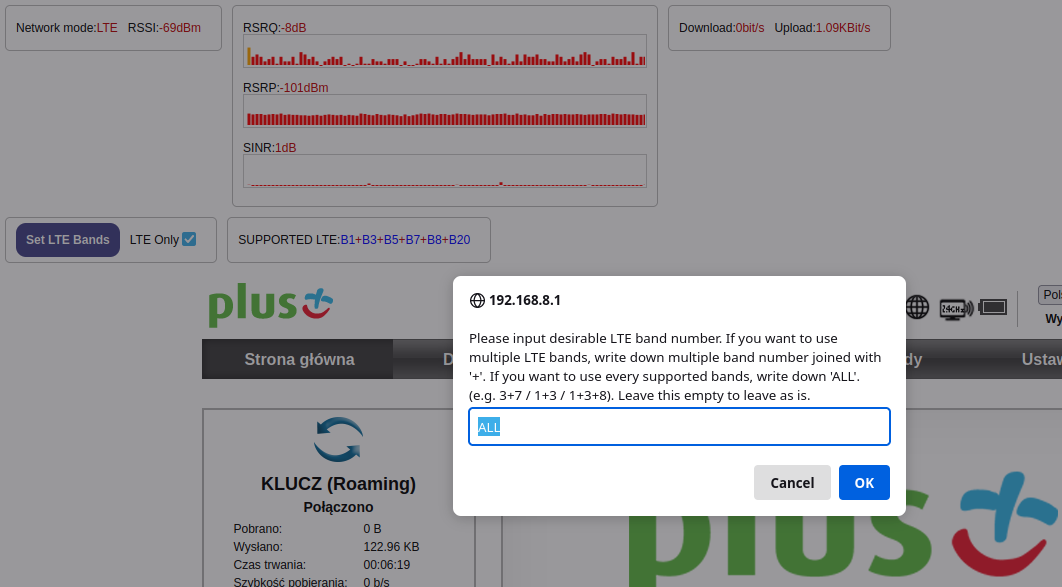
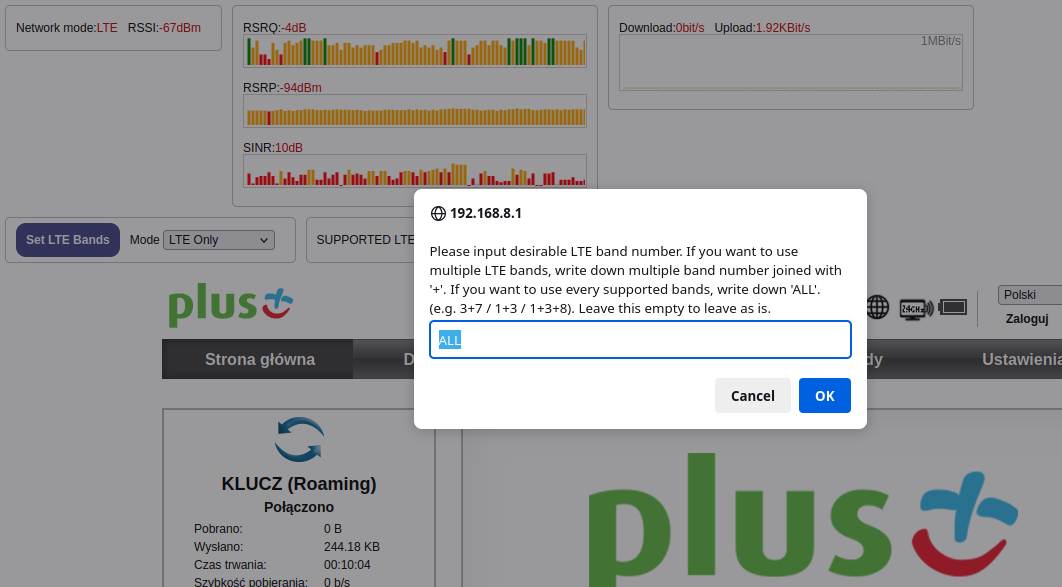
Update README.md
Update shreenshots

diff --git a/README.md b/README.md
@@ -19,6 +19,15 @@ Dashboard with bar plot of signal history on E5573 mobile router:
 
 ![Dashboard on E5573 router web UI](images/e5573.png)
 
+Select one of LTE modes:
+
+* **Auto** - automatic switch between LTE/3G/2G
+* **LTE > GSM** - Use LTE with GSM fallback (e.g. for SMS, USSD)
+* **LTE > WCDMA** - Use LTE with 3G fallback
+* **LTE Only**
+
+![Setting custom LTE bands](images/e5573_1.png)
+
 Specifying LTE bands:
 
 ![Setting custom LTE bands](images/e5573_2.png)
